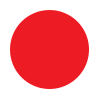
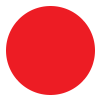
Fixed the size of the pieces

Changed region(s): [[0.06, 0.06, 0.96, 0.96]]

diff --git a/MainGUI.java b/MainGUI.java
@@ -409,8 +409,6 @@ public class MainGUI
                      indexCounterColSeven--;
                   }
             }
-            ();
-            System.out.println("yeah"); 
          }
       }
 
@@ -433,7 +431,7 @@ public class MainGUI
                }
             }
             
-            //repaint();
+            repaint();
          }
 
             /*if(gamePlay[0][indexCounter] == "r"){
